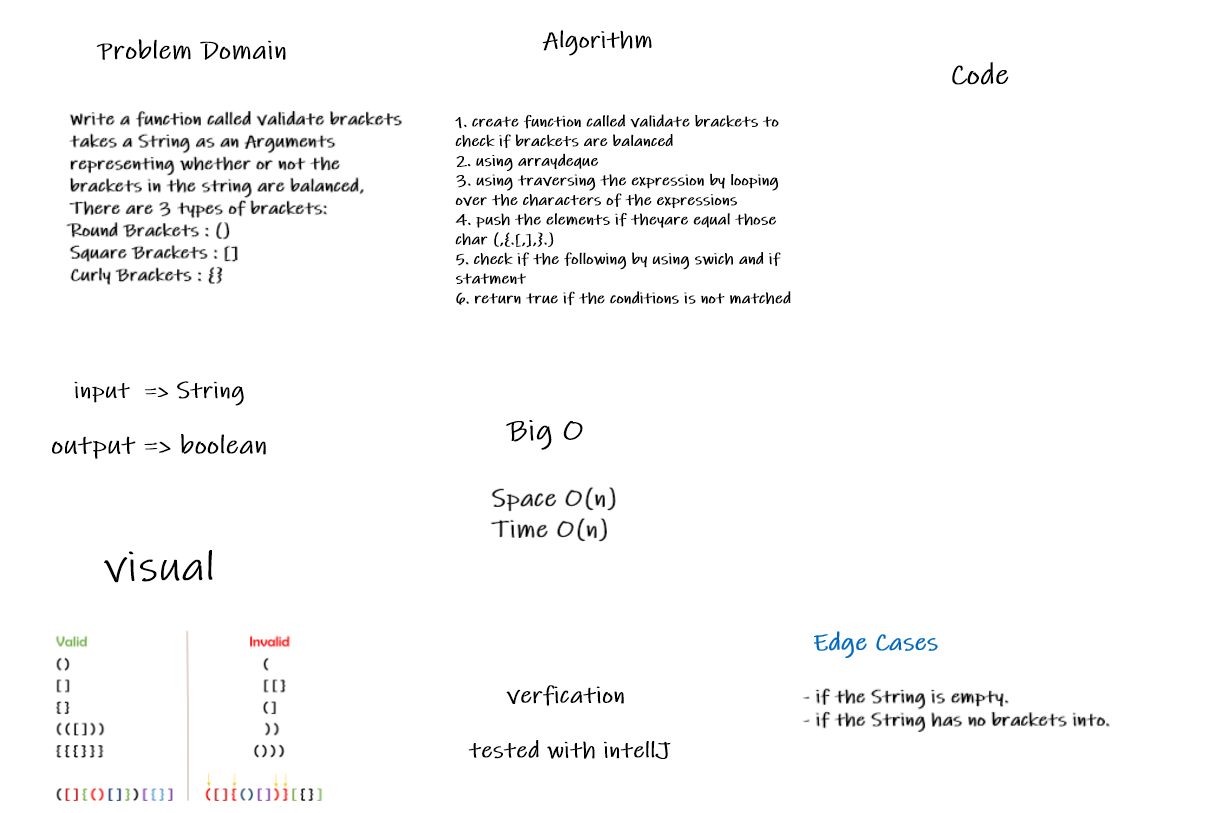
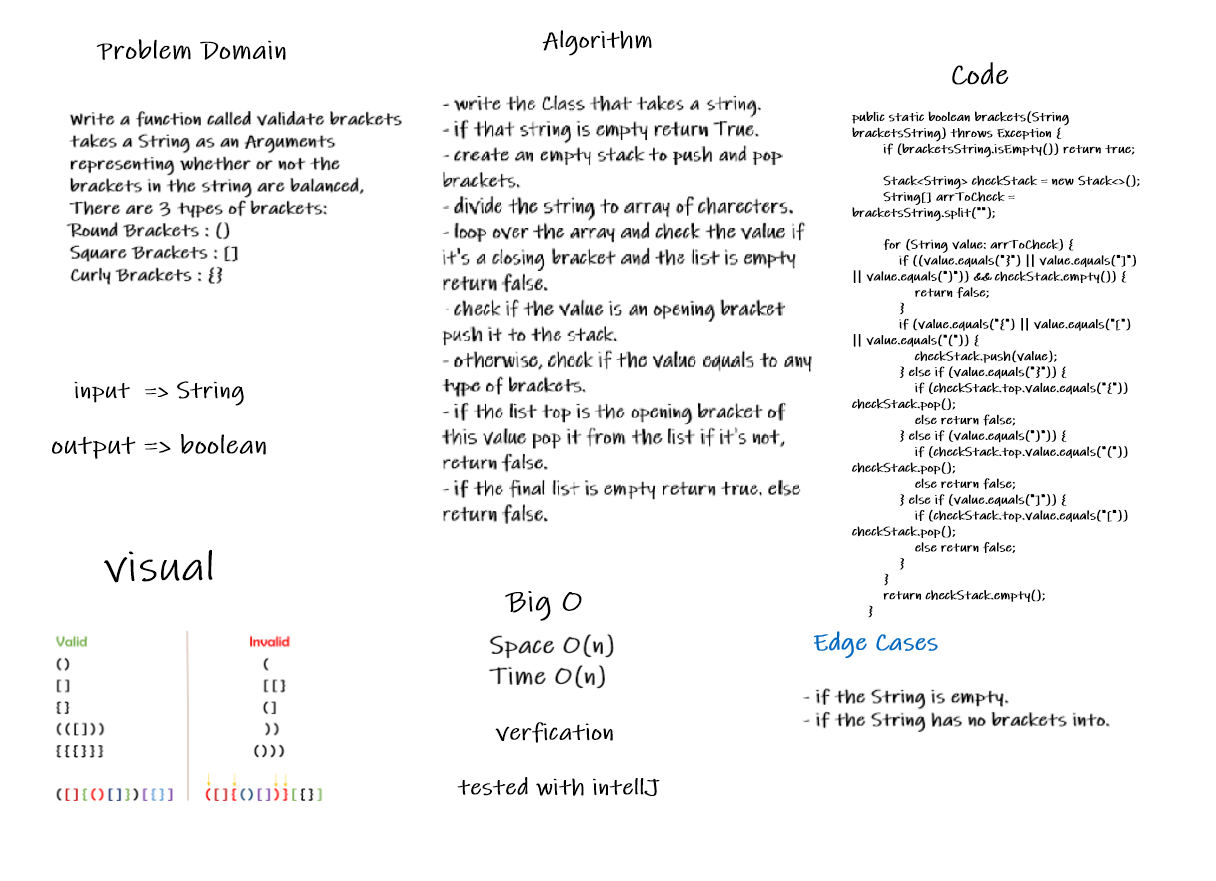
CC13

diff --git a/stack-and-queue/lib/src/main/java/stack/and/queue/Library.java b/stack-and-queue/lib/src/main/java/stack/and/queue/Library.java
@@ -16,57 +16,95 @@ public class Library {
         stack.push("a");
         stack.push("b");
         stack.push("c");
-        System.out.println(stack.toString());
-        System.out.println(stack.empty());
-        System.out.println(stack.peek());
-        stack.pop();
-        System.out.println(stack.peek());
+//        System.out.println(stack.toString());
+//        System.out.println(stack.empty());
+//        System.out.println(stack.peek());
+//        stack.pop();
+//        System.out.println(stack.peek());
+//
+//
+//        Queue queue = new Queue();
+//        System.out.println(queue.empty());
+//        queue.enqueue("a");
+//        queue.enqueue("b");
+//        queue.enqueue("c");
+//        System.out.println(queue.empty());
+//        System.out.println(queue.toString());
+//        System.out.println(queue.peek());
+//        System.out.println(queue.dequeue());
+//        System.out.println(queue.peek());
+//
+//        System.out.println("the Pseudo code: ");
+//
+//        PseudoQueue test = new PseudoQueue();
+//        test.enqueue(9);
+//        test.enqueue(8);
+//        test.enqueue(7);
+//        test.enqueue(6);
+//        test.enqueue(5);
+//        test.dequeue();
+//        test.enqueue(12);
+//        test.dequeue();
+//        test.dequeue();
+//        System.out.println(test.stack1.toString());
+//
+//        System.out.println("the animal shelter code: ");
+//
+//        AnimalShelter animalTest = new AnimalShelter();
+//        System.out.println(animalTest);
+//        animalTest.enqueue(new Cats("Tom"));
+//        animalTest.enqueue(new  Cats("Flash"));
+//        animalTest.enqueue(new Dogs("Rex"));;
+//        animalTest.enqueue(new Dogs("Togo"));
+//        animalTest.dequeue("cat");
+//        animalTest.dequeue("dog");
+//
+//
+//        System.out.println(animalTest.cats.toString());
+//        System.out.println(animalTest.dogs.toString());
 
 
-        Queue queue = new Queue();
-        System.out.println(queue.empty());
-        queue.enqueue("a");
-        queue.enqueue("b");
-        queue.enqueue("c");
-        System.out.println(queue.empty());
-        System.out.println(queue.toString());
-        System.out.println(queue.peek());
-        System.out.println(queue.dequeue());
-        System.out.println(queue.peek());
-
-        System.out.println("the Pseudo code: ");
-
-        PseudoQueue test = new PseudoQueue();
-        test.enqueue(9);
-        test.enqueue(8);
-        test.enqueue(7);
-        test.enqueue(6);
-        test.enqueue(5);
-        test.dequeue();
-        test.enqueue(12);
-        test.dequeue();
-        test.dequeue();
-        System.out.println(test.stack1.toString());
-
-        System.out.println("the animal shelter code: ");
-
-        AnimalShelter animalTest = new AnimalShelter();
-        System.out.println(animalTest);
-        animalTest.enqueue(new Cats("Tom"));
-        animalTest.enqueue(new  Cats("Flash"));
-        animalTest.enqueue(new Dogs("Rex"));;
-        animalTest.enqueue(new Dogs("Togo"));
-        animalTest.dequeue("cat");
-        animalTest.dequeue("dog");
-
-
-        System.out.println(animalTest.cats.toString());
-        System.out.println(animalTest.dogs.toString());
-
-
+        System.out.println( "True , if the result is --> " + brackets("[[[fe]]]"));
+        System.out.println( "True , if the result is --> " + brackets("(({{   }}))"));
+        System.out.println( "False , if the result is --> " + brackets("{()"));
+        System.out.println( "False , if the result is --> " + brackets("[({}]"));
+        System.out.println( "False , if the result is --> " + brackets("String )"));
+        System.out.println( "True , if the result is --> " + brackets(""));
+        System.out.println( "True , if the result is --> " + brackets("f"));
+        System.out.println( "False , if the result is --> " + brackets("f((}}"));
 
 
     }
 
+    public static boolean brackets(String bracketsString) throws Exception {
+        if (bracketsString.isEmpty()) return true;
+
+        Stack<String> checkStack = new Stack<>();
+        String[] arrToCheck = bracketsString.split("");
+
+        for (String value: arrToCheck) {
+            if ((value.equals("}") || value.equals("]") || value.equals(")")) && checkStack.empty()) {
+                return false;
+            }
+            if (value.equals("{") || value.equals("[") || value.equals("(")) {
+                checkStack.push(value);
+            } else if (value.equals("}")) {
+                if (checkStack.top.value.equals("{")) checkStack.pop();
+                else return false;
+            } else if (value.equals(")")) {
+                if (checkStack.top.value.equals("(")) checkStack.pop();
+                else return false;
+            } else if (value.equals("]")) {
+                if (checkStack.top.value.equals("[")) checkStack.pop();
+                else return false;
+            }
+        }
+        return checkStack.empty();
+    }
 
 }
+
+
+
+
+

diff --git a/stack-and-queue/lib/src/test/java/stack/and/queue/LibraryTest.java b/stack-and-queue/lib/src/test/java/stack/and/queue/LibraryTest.java
@@ -113,4 +113,8 @@ class LibraryTest {
 
 
     }
+
+    
+
+
 }
